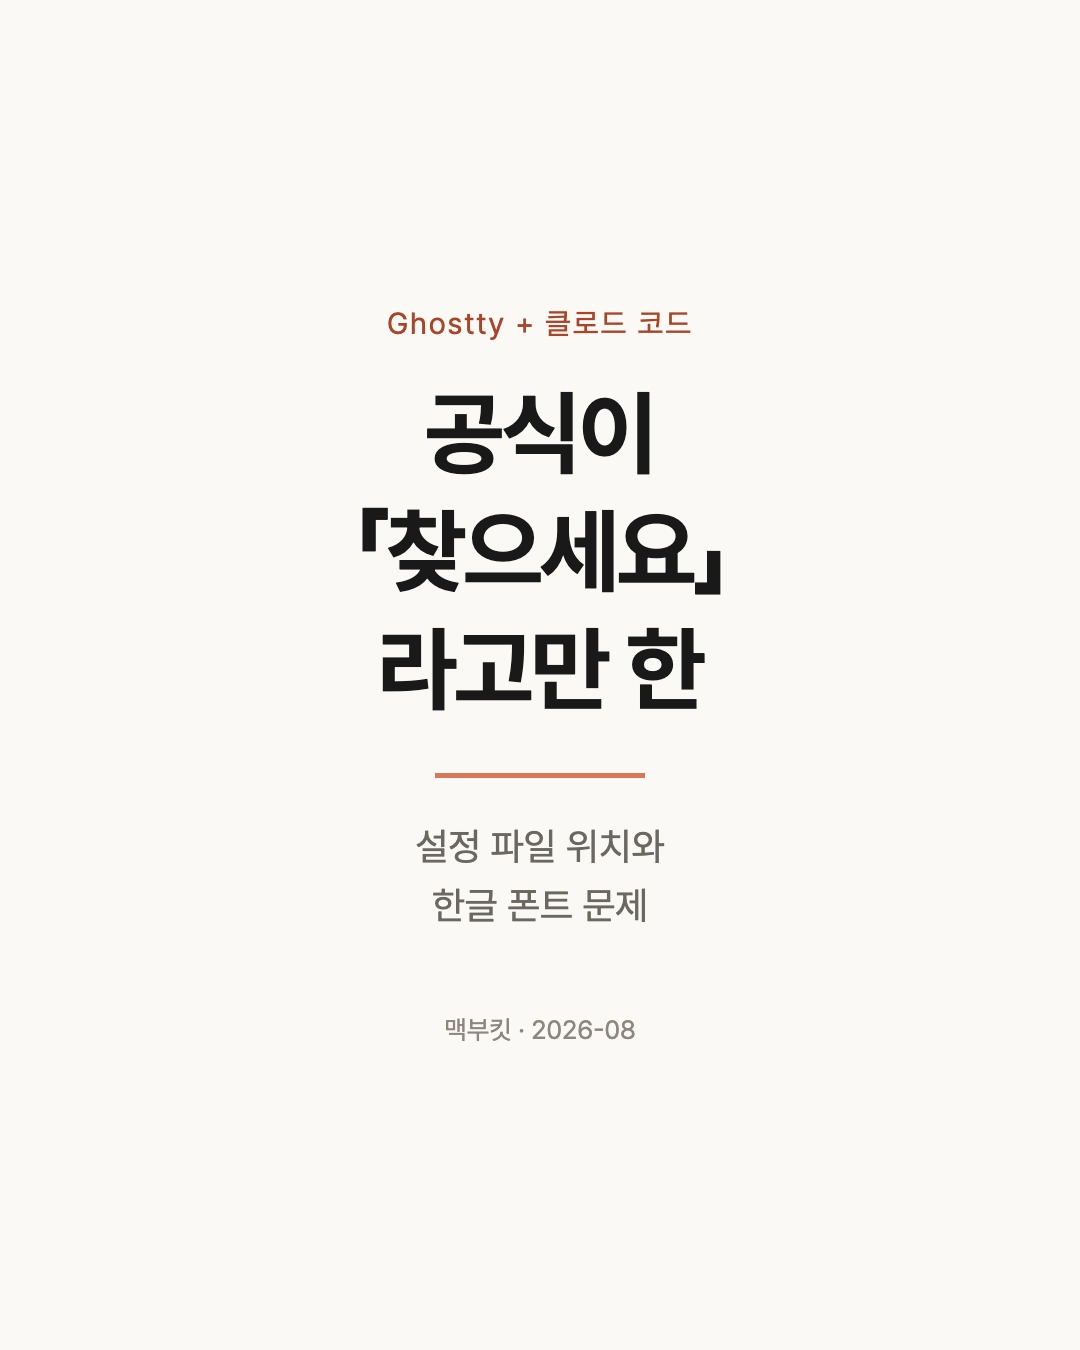
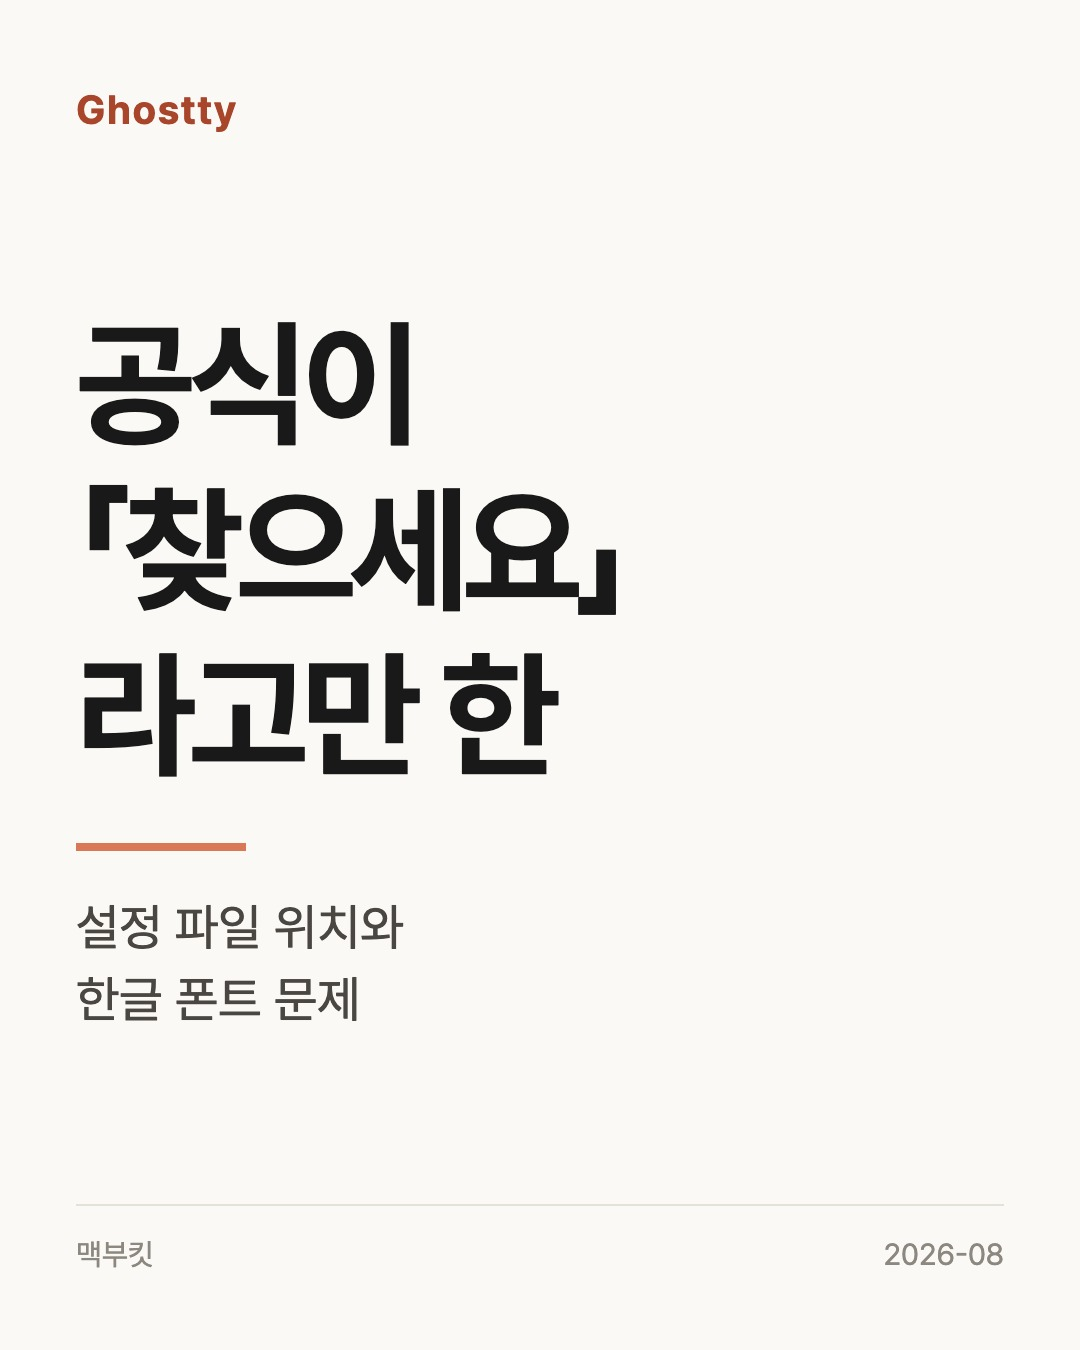
brand(macbookit): 카드 썸네일 생성기 + 세로형 카드 교체
make_card.py — 1080x1350 세로 카드를 슬러그·후크만 주면 뽑는다.
목록이 세로 크롭 + 카드를 통째로 보여주므로 «가로형 금지 · 여백 최소»가 규칙.

diff --git a/macbookit-tistory/brand/card-vertical.css b/macbookit-tistory/brand/card-vertical.css
@@ -1,0 +1,10 @@
+body{margin:0;width:1080px;height:1350px;background:#FAF9F5;
+     font-family:"Pretendard-Regular","Apple SD Gothic Neo",sans-serif;
+     display:flex;flex-direction:column;justify-content:space-between;
+     padding:86px 76px 78px;box-sizing:border-box}
+.top{font-size:40px;color:#A8452A;letter-spacing:.04em;font-weight:700}
+.mid h1{margin:0;font-size:138px;line-height:1.2;color:#191919;font-weight:700;letter-spacing:-.045em}
+.mid .rule{border-bottom:8px solid #D97757;width:170px;margin:44px 0 40px}
+.mid .sub{font-size:50px;color:#4A4742;line-height:1.45;font-weight:500}
+.bot{display:flex;justify-content:space-between;align-items:flex-end;
+     border-top:2px solid #E5E1D8;padding-top:30px;font-size:30px;color:#8C887F}

diff --git a/macbookit-tistory/brand/make_card.py b/macbookit-tistory/brand/make_card.py
@@ -1,0 +1,50 @@
+#!/usr/bin/env python3
+"""맥부킷 카드 썸네일 생성 — 세로형 1080×1350.
+
+🚨 목록이 세로로 크롭한다. 가로형(1536×1024)을 쓰면 좌우가 잘려 글자가 반토막 난다
+   (2026-08-28 실측 — 기존 글들도 같은 증상이었다).
+🚨 여백을 넉넉히 두면 목록에서 «빈 카드»로 보인다. 위아래를 꽉 채운다.
+
+  python3 make_card.py --slug ghostty-... --kicker "Ghostty" \
+     --title "공식이|「찾으세요」|라고만 한" --sub "설정 파일 위치와|한글 폰트 문제"
+  (제목·부제의 | 는 줄바꿈)
+"""
+import argparse, subprocess, tempfile
+from pathlib import Path
+
+BRAND = Path(__file__).parent
+CARDS = BRAND.parent / "images" / "cards"
+WEBSHOT = Path.home() / ".claude/skills/webshot/bin/webshot"
+
+TPL = """<!doctype html><meta charset="utf-8"><link rel="stylesheet" href="{css}">
+<div class="top">{kicker}</div>
+<div class="mid"><h1>{title}</h1><div class="rule"></div><div class="sub">{sub}</div></div>
+<div class="bot"><span>맥부킷</span><span>{date}</span></div>
+"""
+
+def main() -> int:
+    ap = argparse.ArgumentParser()
+    ap.add_argument("--slug", required=True)
+    ap.add_argument("--kicker", required=True, help="상단 라벨 (예: Ghostty)")
+    ap.add_argument("--title", required=True, help="큰 제목. | 로 줄바꿈")
+    ap.add_argument("--sub", required=True, help="부제. | 로 줄바꿈")
+    ap.add_argument("--date", default="2026-08")
+    a = ap.parse_args()
+
+    html = TPL.format(css=BRAND / "card-vertical.css", kicker=a.kicker,
+                      title=a.title.replace("|", "<br>"),
+                      sub=a.sub.replace("|", "<br>"), date=a.date)
+    with tempfile.NamedTemporaryFile("w", suffix=".html", delete=False, encoding="utf-8") as f:
+        f.write(html); tmp = f.name
+    png = Path(tmp).with_suffix(".png")
+    subprocess.run([str(WEBSHOT), "--url", f"file://{tmp}", "--output", str(png),
+                    "--width", "1080", "--height", "1350", "--dpr", "1", "--wait", "600"], check=True)
+    CARDS.mkdir(parents=True, exist_ok=True)
+    out = CARDS / f"{a.slug}.jpg"
+    from PIL import Image
+    Image.open(png).convert("RGB").save(out, "JPEG", quality=92)
+    print(f"✓ {out}")
+    return 0
+
+if __name__ == "__main__":
+    raise SystemExit(main())
